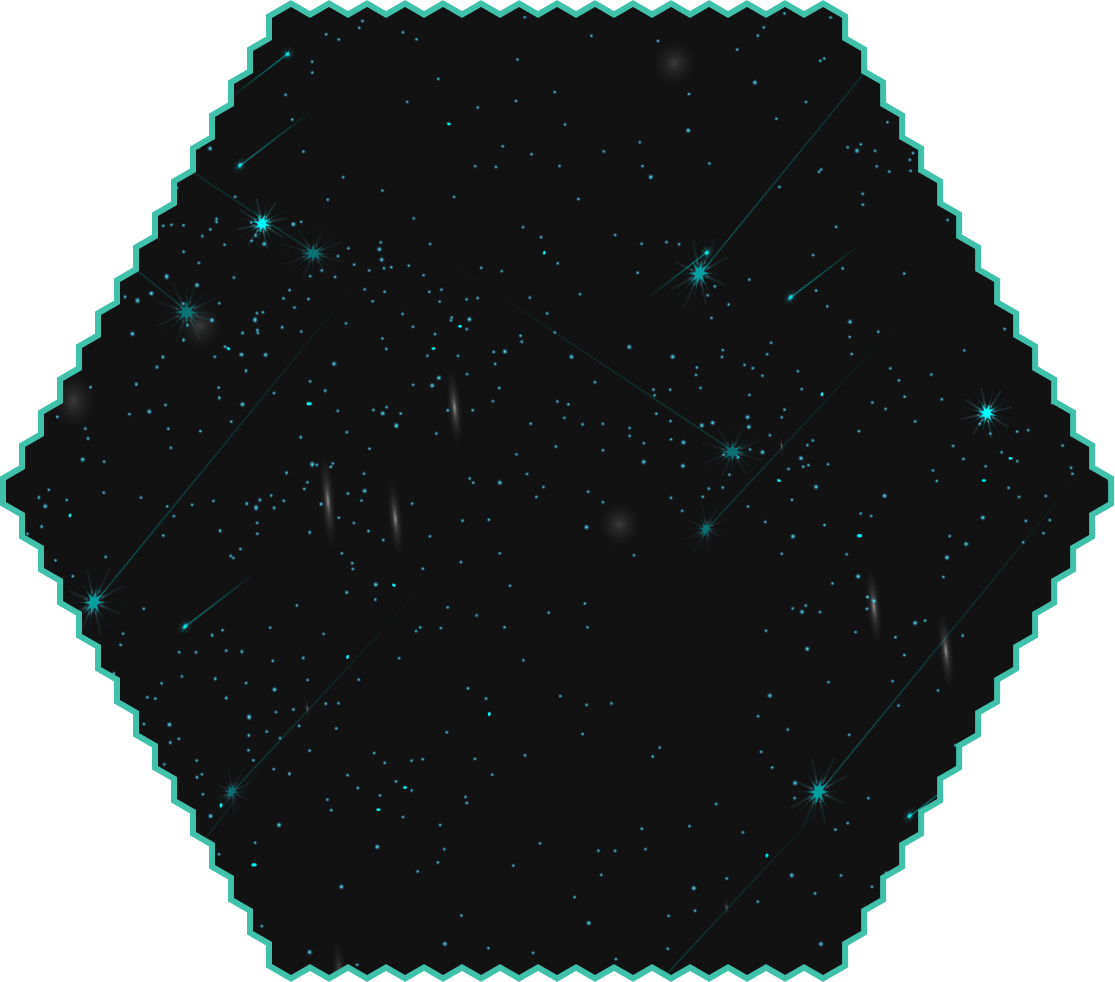
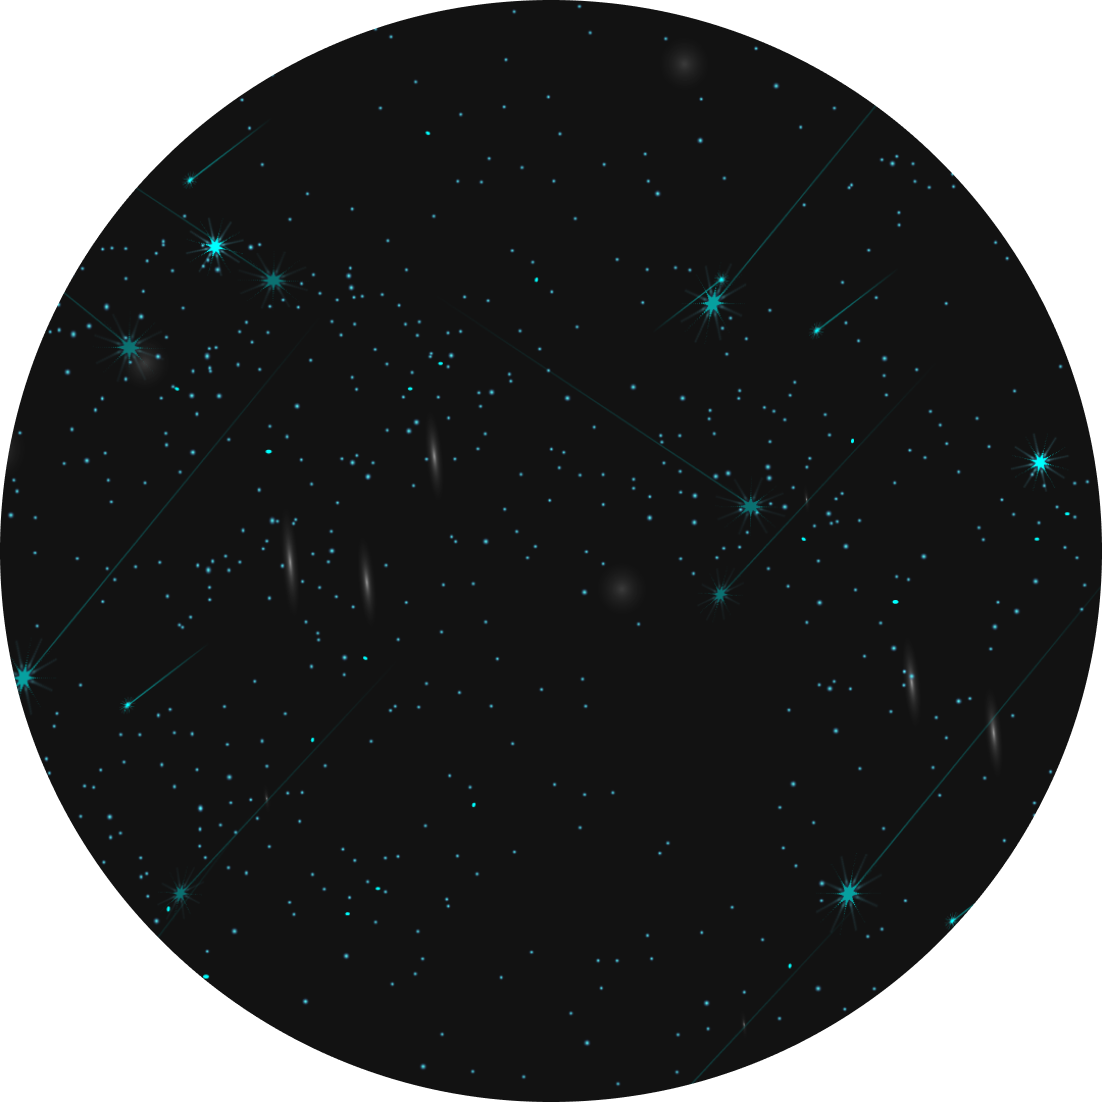
MapFrame rotation

diff --git a/static/js/Logic/draw.js b/static/js/Logic/draw.js
@@ -2,6 +2,7 @@
 
 import PlayersURL from "../../gif/Players.png";
 import MapBaseURL from "../../gif/MapBase.png";
+import MapFrameURL from "../../gif/MapFrame.png";
 import TileBorderURL from "../../gif/TileBorder.png"
 import FullTileEntitiesURL from "../../gif/Tiles.png";
 import BossURL from "../../gif/Boss.png";
@@ -11,12 +12,14 @@ import BossURL from "../../gif/Boss.png";
 
 let players = new Image();	
 let mapBase = new Image();
+let mapFrame = new Image();
 let tileBorder = new Image();
 let FullTileEntities = new Image();
 let boss = new Image();
 
 players.src = PlayersURL;
 mapBase.src = MapBaseURL;
+mapFrame.src = MapFrameURL;
 tileBorder.src =  TileBorderURL;
 FullTileEntities.src = FullTileEntitiesURL;
 boss.src = BossURL;
@@ -32,7 +35,7 @@ const sPlayerW =  44;
 const sPlayerH = 44;
 
 var angle = 0;
-
+var angle1 =0;
 // Tipovi entitija: =====================================================================================
 const TileEntity = { // uzima delovi 1, drugi red kako to zna pitate se? ctrl f = 
     Fence300:   { index: 0 },
@@ -121,13 +124,26 @@ export class Draw{
 	
 	// Iscrtavanje podloge mape:
 	drawMapBase(){
+		ctx.save();
+		ctx.translate(551, 488);
+		ctx.rotate(angle1*Math.PI/180);
+		
 		ctx.drawImage(
 			mapBase,
+			-551,
+			-551
+		)
+			angle1 = angle1+0.02;
+		ctx.restore();
+	};
+	drawMapFrame(){
+		ctx.drawImage(
+			mapFrame,
 			-1,
 			-3
 		)
-		
-	};
+
+	}
 	// Iscrtavanje Boss-a:
 	drawBoss(){
 		ctx.drawImage(

diff --git a/static/js/Logic/game.js b/static/js/Logic/game.js
@@ -110,6 +110,7 @@ export class Game {
 		// Crtanje MapBase-a:
 		
 		this.drawInstance.drawMapBase();
+		this.drawInstance.drawMapFrame();
 		
 		// Crtanje tile-ova:
 		drawTiles(this.map, this.drawInstance);

diff --git a/static/css/main.css b/static/css/main.css
@@ -9,7 +9,9 @@
     src: url("../gif/NeuropolXBold.ttf");
     font-weight: bold;
     font-style: normal;
+
 }
+
 body, html {
     position: relative;
     background-size:cover;
